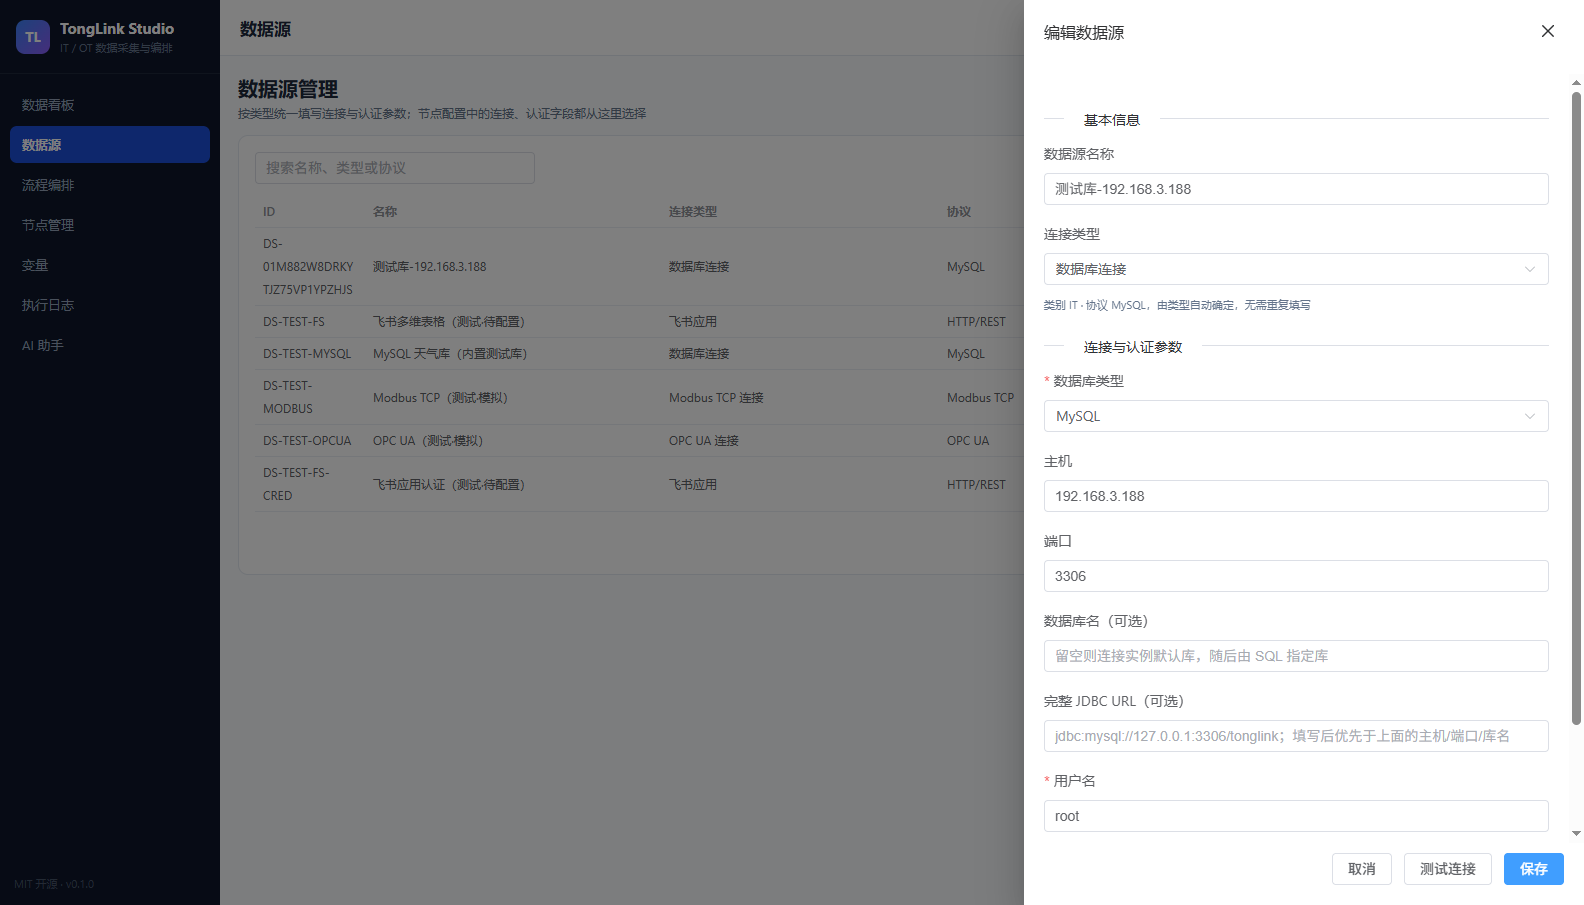
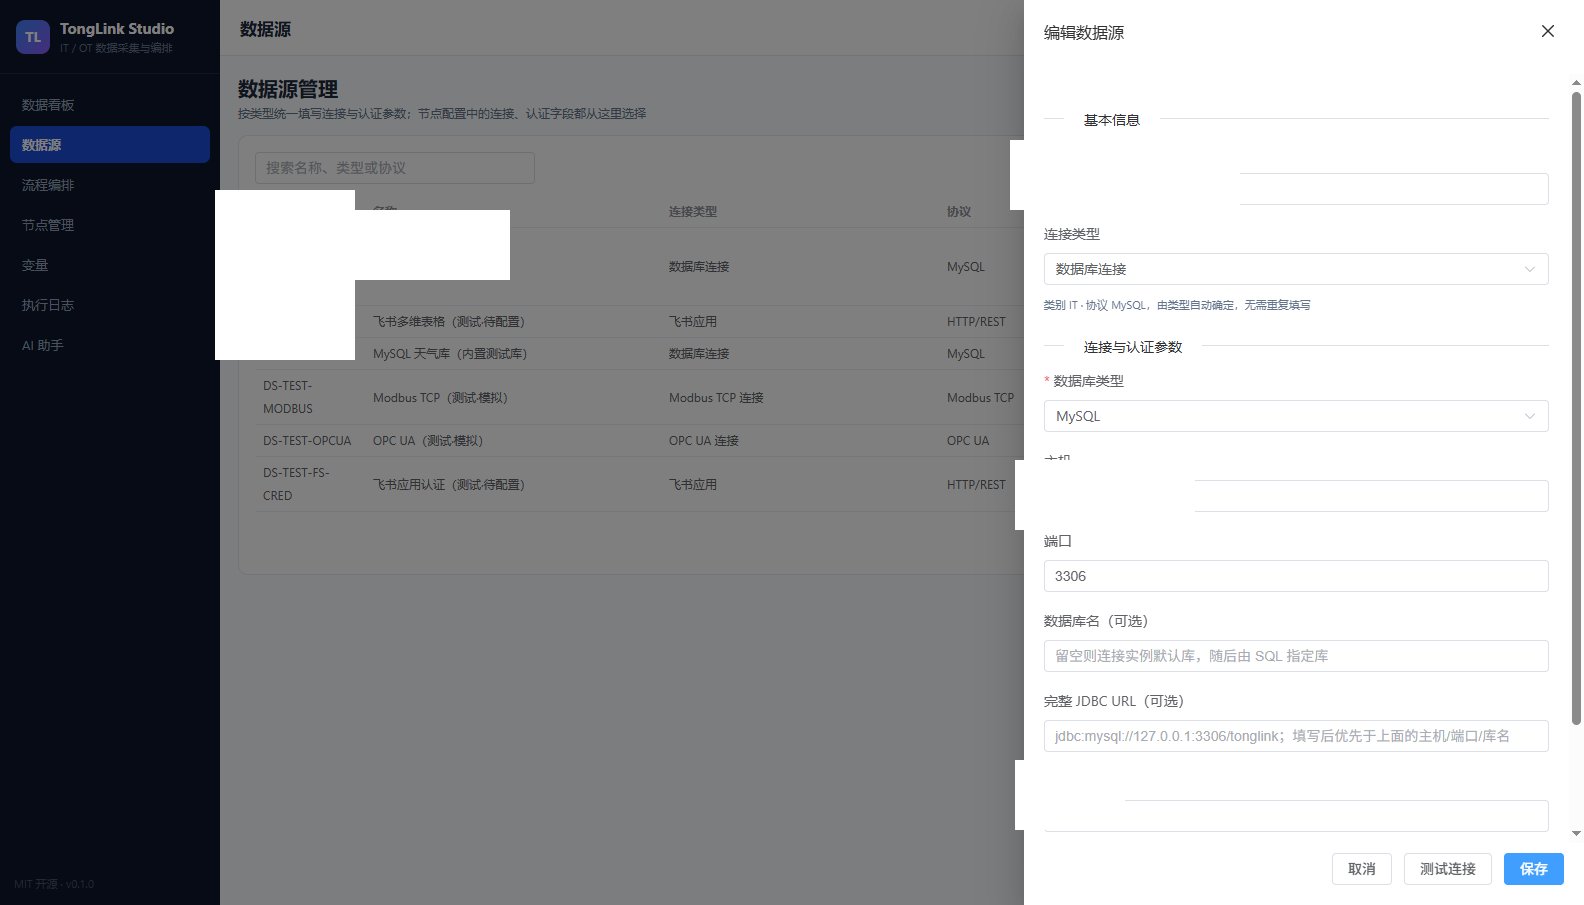
优化文档内容

diff --git a/backend/tonglink-connector/src/test/java/cn/tonglink/connector/AlertExecutorTest.java b/backend/tonglink-connector/src/test/java/cn/tonglink/connector/AlertExecutorTest.java
@@ -139,7 +139,7 @@ class AlertExecutorTest {
 
             Map<String, Object> config = new LinkedHashMap<>();
             config.put("channel", "邮件");
-            config.put("webhook", "java_fish@126.com");
+            config.put("webhook", "recipient@example.com");
             config.put("titleTemplate", "Alert PT101");
             config.put("messageTemplate", "device=PT101 temp=95");
             config.put("severity", "警告");
@@ -150,7 +150,7 @@ class AlertExecutorTest {
             assertEquals("real", result.get("mode"));
             assertFalse(smtp.messages.isEmpty());
             String mail = smtp.messages.get(0);
-            assertTrue(mail.contains("To: java_fish@126.com"), mail);
+            assertTrue(mail.contains("To: recipient@example.com"), mail);
             // 主题按 MIME Q 编码，空格编码为下划线
             assertTrue(mail.contains("Alert_PT101"), mail);
             String encodedBody = mail.substring(mail.indexOf("Content-Transfer-Encoding: base64")
@@ -170,7 +170,7 @@ class AlertExecutorTest {
         StubSources sources = new StubSources();
         sources.set(Map.of("smtpHost", "127.0.0.1", "smtpPort", String.valueOf(closedPort),
                 "encryption", "无", "username", "", "password", "", "from", "alert@tonglink.test"));
-        Map<String, Object> config = Map.of("channel", "邮件", "webhook", "java_fish@126.com",
+        Map<String, Object> config = Map.of("channel", "邮件", "webhook", "recipient@example.com",
                 "suppressMinutes", 0);
         ApiException error = assertThrows(ApiException.class,
                 () -> run(executor(sources), config, List.of(Map.of("event", "trigger"))));

diff --git a/scripts/run_node_tests.py b/scripts/run_node_tests.py
@@ -10,10 +10,12 @@
 同时创建/复用「测试用例」项目 P-TEST，并生成一个
 「深圳未来3天天气 → 飞书多维表格」的端到端流程。
 
-用法：python scripts/run_node_tests.py [--base http://localhost:8080]
+用法：ADMIN_PASSWORD=你的口令 python scripts/run_node_tests.py [--base http://localhost:8080]
+      或：python scripts/run_node_tests.py --password 你的口令 --base http://localhost:8080
 """
 import argparse
 import json
+import os
 import sys
 import time
 import urllib.error
@@ -207,14 +209,19 @@ def main():
     global BASE, TOKEN
     parser = argparse.ArgumentParser()
     parser.add_argument('--base', default=BASE)
+    parser.add_argument('--password', default=os.environ.get('ADMIN_PASSWORD', ''),
+                        help='管理员口令，也可通过 ADMIN_PASSWORD 环境变量提供')
     args = parser.parse_args()
     BASE = args.base.rstrip('/')
     # 允许传 http://host:port 或完整的 .../api/v1 两种形式
     if not BASE.endswith('/api/v1'):
         BASE += '/api/v1'
 
-    # 内置账号口令在不同版本间调整过，依次尝试已知候选，取第一个能登录的
-    candidates = ['Qbeed@912', 'Admin@123', 'Ywo@499', 'Eng@123', 'Uzxs@755', 'View@123']
+    # 不在仓库中保存任何口令；由命令行参数或环境变量提供
+    candidates = [args.password] if args.password else []
+    if not candidates:
+        print('请通过 --password 或 ADMIN_PASSWORD 环境变量提供管理员口令')
+        return
     last_error = ''
     for password in candidates:
         login_req = urllib.request.Request(

diff --git a/backend/tonglink-app/src/test/java/cn/tonglink/app/IntegrationTest.java b/backend/tonglink-app/src/test/java/cn/tonglink/app/IntegrationTest.java
@@ -769,7 +769,7 @@ class IntegrationTest {
                         "position":{"x":0,"y":0},"config":{}},
                        {"id":"n2","type":"output","subtype":"alert","nodeVersion":"1","title":"邮件告警",
                         "position":{"x":220,"y":0},
-                        "config":{"channel":"邮件","credential":"%s","webhook":"java_fish@126.com",
+                        "config":{"channel":"邮件","credential":"%s","webhook":"recipient@example.com",
                                   "titleTemplate":"告警 {{ $json.flowId }}",
                                   "messageTemplate":"IT-ALERT-MARKER flow={{ $json.flowId }}",
                                   "severity":"严重","suppressMinutes":0}}
@@ -782,7 +782,7 @@ class IntegrationTest {
 
             assertThat(smtp.messages).hasSize(1);
             String mail = smtp.messages.get(0);
-            assertThat(mail).contains("To: java_fish@126.com");
+            assertThat(mail).contains("To: recipient@example.com");
             // Jakarta Mail 会按正文内容选择 base64 或 quoted-printable，两者中标记均为可读文本
             assertThat(mail).contains("IT-ALERT-MARKER");
         }

diff --git a/backend/tonglink-datasource/src/test/java/cn/tonglink/datasource/DataSourceServiceTest.java b/backend/tonglink-datasource/src/test/java/cn/tonglink/datasource/DataSourceServiceTest.java
@@ -17,18 +17,18 @@ class DataSourceServiceTest {
     @Test
     void 掩码密码还原为已保存值() {
         Map<String, Object> incoming = new LinkedHashMap<>();
-        incoming.put("host", "192.168.3.188");
+        incoming.put("host", "db.example.com");
         incoming.put("username", "root");
         incoming.put("password", "******");
         incoming.put("appSecret", "");
-        Map<String, Object> stored = Map.of("password", "root@2025", "appSecret", "real-secret");
+        Map<String, Object> stored = Map.of("password", "test-secret", "appSecret", "real-secret");
 
         Map<String, Object> resolved = DataSourceService.resolveMaskedSecrets(
                 incoming, stored, List.of("password", "appSecret"));
 
-        assertThat(resolved.get("password")).isEqualTo("root@2025");
+        assertThat(resolved.get("password")).isEqualTo("test-secret");
         assertThat(resolved.get("appSecret")).isEqualTo("real-secret");
-        assertThat(resolved.get("host")).isEqualTo("192.168.3.188");
+        assertThat(resolved.get("host")).isEqualTo("db.example.com");
     }
 
     /** 用户新填的明文密码不能被覆盖。 */

diff --git a/TEST_REPORT.md b/TEST_REPORT.md
@@ -2,6 +2,7 @@
 
 > 本报告记录首版（v0.1.0）在交付前的完整测试结果，覆盖后端 Maven 测试、前端单元测试、前端生产构建与轻量 Docker 镜像打包。
 > 所有测试均在本地 Windows 环境完成，命令与实际输出一致，可复现。
+> **隐私说明**：文中涉及的账号、口令、主机地址、库名、邮箱与数据源 ID 均已脱敏；截图中的敏感字段已遮盖。
 >
 > **v0.1.1 修复轮（2026-11-21 晚）**：根据用户启动测试反馈修复了三个交互缺陷（项目新建入口、节点属性配置、DAG 画布交互），详见第 9 节。修复后重新跑通全部测试并重建镜像。
 
@@ -169,7 +170,7 @@ bash scripts/deploy-lite.sh
 
 # 3. 访问
 # http://服务器IP:8080
-# 内置账号：admin / Admin@123
+# 内置账号：admin（口令见登录页「管理员」一键填充，生产环境请立即修改）
 ```
 
 `deploy-lite.sh` 会自动加载镜像、启动容器并跟随日志。数据通过 `tonglink-data` 卷持久化到 `/app/data`。生产环境请通过环境变量覆盖 `TONGLINK_CRYPTO_KEY` 与 `TONGLINK_JWT_SECRET`。
@@ -271,7 +272,7 @@ bash scripts/deploy-lite.sh
 | # | 问题 | 根因 | 修复 | 验证 |
 |---|---|---|---|---|
 | 1 | 点击测试连接后报错信息不消失，一直停留在页面 | 抽屉 `testDraft()` 使用 `ElMessage({duration: 0, showClose: true})`，每次点击都新增一条永不自动消失的提示并堆叠 | 统一管理单个消息句柄：每次测试先 `close()` 上一条；duration 改为 5 秒且可手动关闭；列表「测试」按钮也走同一逻辑；打开抽屉时清理旧提示 | 浏览器连点 3 次「测试连接」：成功与失败场景均只剩 1 条提示，5 秒后自动消失（count=0） |
-| 2 | 数据库连接测试不成功（用户提供 192.168.3.188:3306 / root / root@2025，未填库名） | `validateFields()` 强制要求「数据库名」，但该 MySQL 只需连接实例；请求在校验阶段就返回 422，根本没走到 JDBC | 库名改为可选（MySQL/PostgreSQL 允许只连实例），JDBC URL 允许不拼库名；Oracle/SQL Server 仍要求服务名 | 用户提供的参数走「保存前测试」直接返回 **JDBC 连接成功**；保存后「测试」同样成功，状态 connected |
+| 2 | 数据库连接测试不成功（用户提供测试库的主机、账号与口令，地址与凭据已脱敏，未填库名） | `validateFields()` 强制要求「数据库名」，但该 MySQL 只需连接实例；请求在校验阶段就返回 422，根本没走到 JDBC | 库名改为可选（MySQL/PostgreSQL 允许只连实例），JDBC URL 允许不拼库名；Oracle/SQL Server 仍要求服务名 | 用户提供的参数走「保存前测试」直接返回 **JDBC 连接成功**；保存后「测试」同样成功，状态 connected |
 | 3 | 编辑已有数据源后点「测试连接」仍失败 | 列表接口只回密码掩码 `******`，草稿测试把掩码当真密码发给 JDBC | 草稿请求带 `id`；后端用 `resolveMaskedSecrets()` 把掩码/空白密码替换为已保存的解密值，新填明文密码不被覆盖 | HTTP 冒烟：掩码密码 + id 返回 JDBC 连接成功；单元测试 2 项验证还原与明文优先；浏览器中编辑态测试成功 |
 
 ### 12.1 测试结果
@@ -281,10 +282,10 @@ bash scripts/deploy-lite.sh
 | 后端全量测试 | `mvn test`（14 模块 reactor） | **35 项全部通过**（新增 2 项数据源单测 + 1 项无库名回归断言），0 失败 / 0 错误 |
 | 前端类型检查 + 生产构建 | `npm run build` | 通过 |
 | 前端单元测试 | `npm test` | 3 项通过 |
-| 真实数据库冒烟 | 192.168.3.188:3306（用户提供的测试库） | TCP 可达；保存前测试、已保存测试均返回「JDBC 连接成功」 |
+| 真实数据库冒烟 | 用户提供的测试库（地址已脱敏） | TCP 可达；保存前测试、已保存测试均返回「JDBC 连接成功」 |
 | 浏览器实机验证 | Chrome CDP | 提示不堆叠、5 秒自动消失；编辑态掩码密码测试成功；`03-sources.png` 已重拍 |
 
-> 已在本地演示库创建数据源 `DS-01M882W8DRKYTJZ75VP1YPZHJS`（测试库-192.168.3.188），密码 AES-GCM 加密落库，接口只回掩码。
+> 已在本地演示库创建测试数据源（ID 与地址已脱敏），密码 AES-GCM 加密落库，接口只回掩码。
 
 ---
 
@@ -307,7 +308,7 @@ bash scripts/deploy-lite.sh
 | `FLOW-TEST-MQTT-RECV` | 测试-MQTT-触发器接收并输出 | 订阅 `tonglink.test.mqtt.push` → MQTT 触发器 → Node.js 节点 `return $input` | 收到推送流程消息，代码节点输出包含 `FLOW-TEST-MQTT-PUSH`，执行 SUCCESS |
 | `FLOW-TEST-PG` | 测试-PostgreSQL 查询 | 手动触发 → PostgreSQL 节点执行 `SELECT 1` | 执行 SUCCESS，输出 `ok=1, db=appdb` |
 
-> 三个数据源分别指向用户提供的 Kafka `192.168.3.188:9092`、MQTT `192.168.3.188:1883` 与 PostgreSQL `192.168.3.188:5432/appdb`；密码均 AES-GCM 加密落库，接口只回掩码。MQTT 的 WebSocket 端口 9001 已确认监听，但服务端 MQTT 客户端固定使用 TCP 1883。
+> 三个数据源分别指向用户提供的 Kafka、MQTT 与 PostgreSQL 服务（主机与库名已脱敏）；密码均 AES-GCM 加密落库，接口只回掩码。MQTT 的 WebSocket 端口 9001 已确认监听，但服务端 MQTT 客户端固定使用 TCP 1883。
 
 ### 13.2 测试结果
 
@@ -333,7 +334,7 @@ bash scripts/deploy-lite.sh
 
 | 验证项 | 结果 |
 |---|---|
-| 本地 SMTP 服务 + 真实 Jakarta Mail 投递 | 收件头 `To: java_fish@126.com`，正文含 `IT-ALERT-MARKER`，主题含严重级别与流程 ID |
+| 本地 SMTP 服务 + 真实 Jakarta Mail 投递 | 收件头 `To: <测试收件邮箱（已脱敏）>`，正文含 `IT-ALERT-MARKER`，主题含严重级别与流程 ID |
 | 流程执行结果 | 手动触发 → 邮件告警节点 SUCCESS，节点输出 `status=sent`、`mode=real` |
 | 模板渲染 | 输出 `subject=告警 FLOW-…`、`message=IT-ALERT-MARKER flow=FLOW-…`，来自上游触发事件 |
 | 凭据安全 | 授权码加密落库，数据源接口只回掩码；执行时由 `DataSourceService.connectionFields()` 解密后使用 |
@@ -347,7 +348,7 @@ bash scripts/deploy-lite.sh
 | 告警单元测试 | `AlertExecutorTest` | 5 项通过：模板渲染、模拟回退、Webhook 投递 + 抑制 + 企微载荷、本地 SMTP 真实发信、SMTP 失败提示 |
 | 告警集成测试 | `IntegrationTest.告警通知节点端到端真实发送邮件` | 通过：API 建邮件数据源 → 建流程 → 执行 → 本地 SMTP 收到真实邮件 |
 
-> 真机邮件需要 SMTP 发件账号（例如 `smtp.126.com:465`、发件邮箱与授权码）。用户确认提供授权码后，将在测试项目创建邮件数据源与「手动触发 → 邮件告警」流程，向 `java_fish@126.com` 发送一封测试邮件并核对收件结果。
+> 真机邮件需要 SMTP 服务器地址、端口、发件邮箱与授权码（均已脱敏）。用户确认提供授权码后，将在测试项目创建邮件数据源与「手动触发 → 邮件告警」流程，向测试收件邮箱发送一封测试邮件并核对收件结果。
 
 ---
 
@@ -423,7 +424,7 @@ bash scripts/deploy-lite.sh
 
 | 排查项 | 结果 |
 |---|---|
-| IDEA 运行配置 | `TongLink-pg` 使用 `DB_URL=jdbc:postgresql://192.168.3.188:5432/tonglink_studio`、`DB_POOL_SIZE=3`，没有设置 `DB_KEEPALIVE_TIME` / `DB_MAX_LIFETIME` 覆盖变量 |
+| IDEA 运行配置 | `TongLink-pg` 使用 PostgreSQL 连接（地址与库名已脱敏）、`DB_POOL_SIZE=3`，没有设置 `DB_KEEPALIVE_TIME` / `DB_MAX_LIFETIME` 覆盖变量 |
 | PG 服务端参数（16.16，直连查询） | `idle_in_transaction_session_timeout=0`、`idle_session_timeout=0`、`statement_timeout=0`、`max_connections=100`、`tcp_keepalives_idle=7200s` —— 服务端不会主动回收空闲连接 |
 | 警告来源 | HikariCP 6.3.3 `PoolBase.isConnectionDead()`；日志线程 `[nio-8080-exec-1]` 说明是 HTTP 请求借连接时校验失败，Hikari 会关闭该连接并重新借一条，**属于自愈行为**，不是连接池整体失效 |
 | 根因判断 | 中间网络（局域网/NAT/防火墙）回收空闲 TCP 会话；此前 5 分钟保活窗口过长，用户请求恰好落在「连接已断、保活尚未探测」的窗口内。OS 级 TCP keepalive 默认 7200 秒，对分钟级回收无效 |
@@ -442,7 +443,7 @@ bash scripts/deploy-lite.sh
 
 ### 18.3 真实 PG 容断验证
 
-针对 `192.168.3.188:5432/tonglink_studio` 运行独立压测（HikariCP 6.3.3 + PG JDBC 42.7.11）：
+针对用户提供的 PostgreSQL 实例（地址与库名已脱敏）运行独立压测（HikariCP 6.3.3 + PG JDBC 42.7.11）：
 
 1. 用新配置创建连接池，取到后端 PID `22788`；
 2. 通过管理员连接执行 `pg_terminate_backend(22788)` 模拟连接被外部掐断；

diff --git a/README.md b/README.md
@@ -81,7 +81,7 @@ npm run dev
 
 | 账号 | 密码 | 角色 |
 |---|---|---|
-| admin | Admin@123 | 系统管理员（系统唯一账号） |
+| admin | 见登录页「管理员」一键填充（生产环境请立即修改） | 系统管理员（系统唯一账号） |
 
 > 生产环境请通过环境变量覆盖默认密钥（`TONGLINK_CRYPTO_KEY`、`TONGLINK_JWT_SECRET`），并修改 admin 口令。详见 [`docs/DEPLOYMENT.md`](docs/DEPLOYMENT.md)。
 
